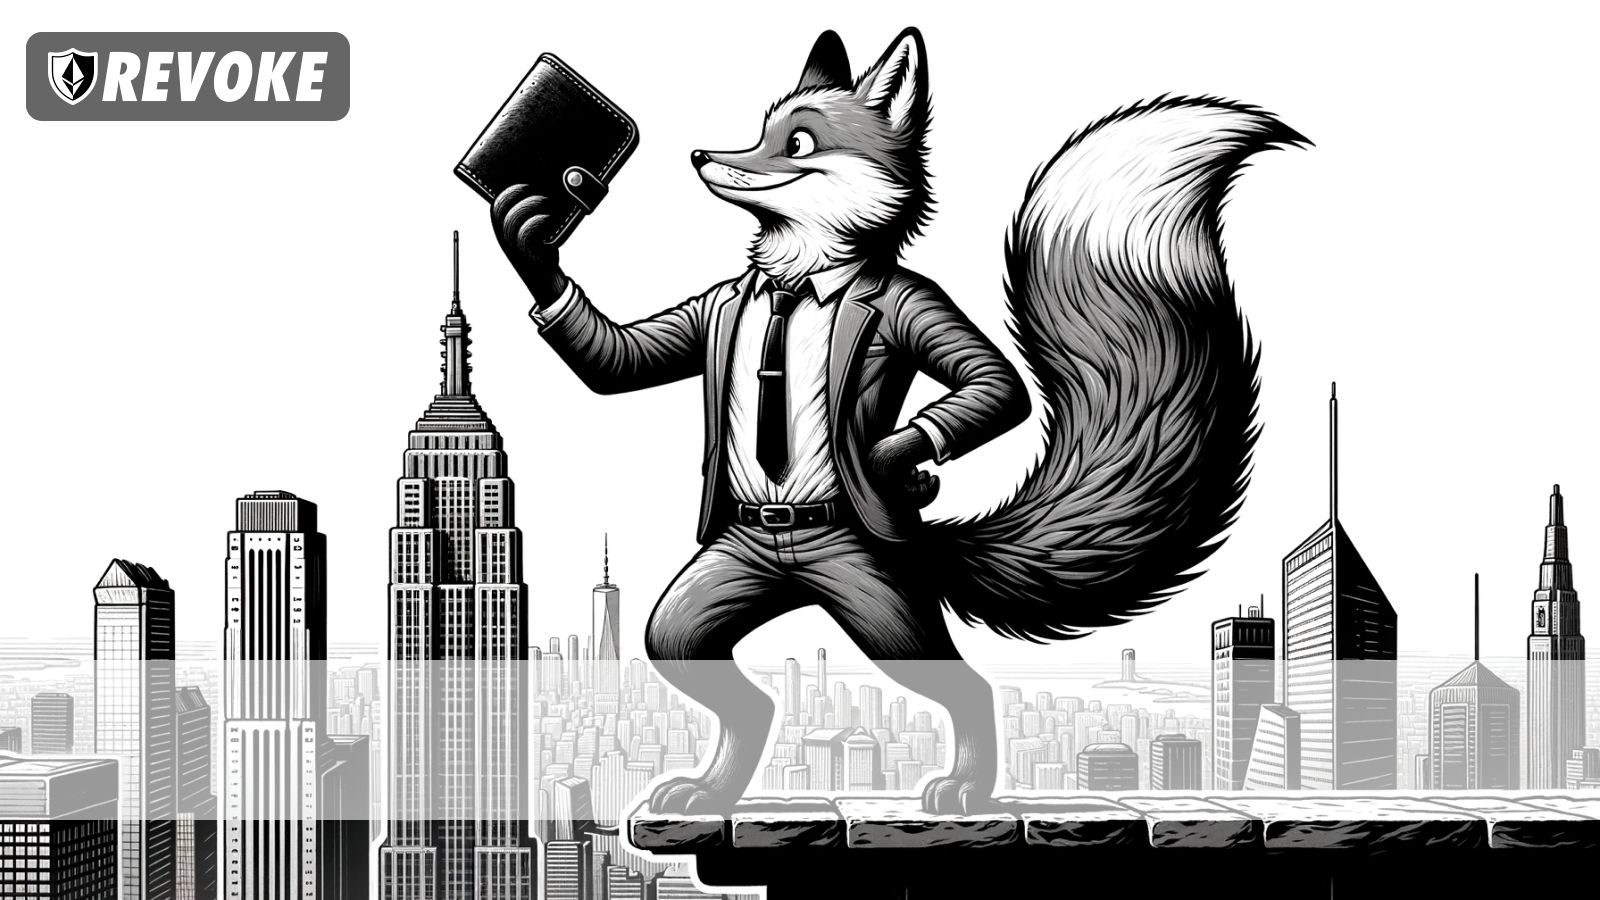
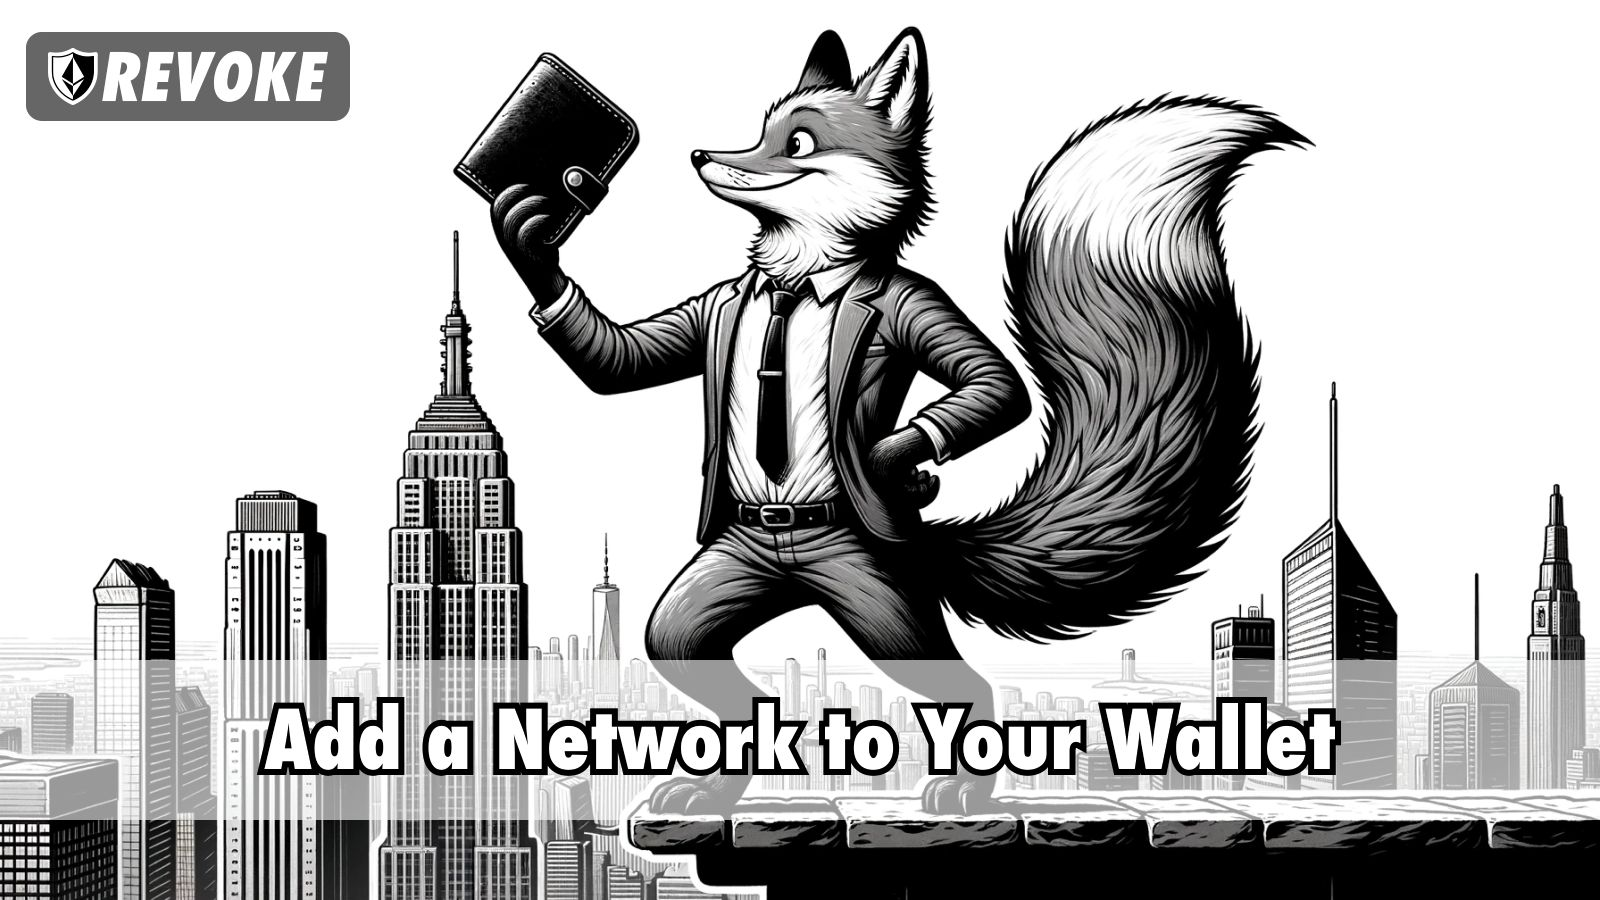
Add images to Learn section cards

Changed region(s): [[0.1562, 0.7778, 0.8438, 0.8711]]

diff --git a/components/common/Card.tsx b/components/common/Card.tsx
@@ -6,12 +6,13 @@ interface Props {
   title?: ReactNode;
   subtitle?: ReactNode;
   children: ReactNode;
+  image?: ReactNode;
   icon?: React.ExoticComponent<React.SVGProps<SVGSVGElement>>;
   className?: string;
   isLoading?: boolean;
 }
 
-const Card = ({ title, subtitle, children, className, ...props }: Props) => {
+const Card = ({ title, subtitle, children, className, image, ...props }: Props) => {
   return (
     <div className="h-full w-full border border-black dark:border-white rounded-lg">
       {(title || subtitle) && (
@@ -22,6 +23,7 @@ const Card = ({ title, subtitle, children, className, ...props }: Props) => {
           <p>{subtitle}</p>
         </div>
       )}
+      {image ? <div className="border-b border-black dark:border-white">{image}</div> : null}
       <Loader isLoading={props.isLoading} className="rounded-t-none border-none">
         <div className={twMerge('w-full py-2 px-4', className)}>{children}</div>
       </Loader>

diff --git a/components/learn/ArticleCardSection.tsx b/components/learn/ArticleCardSection.tsx
@@ -1,6 +1,7 @@
 import Card from 'components/common/Card';
 import Href from 'components/common/Href';
 import { ISidebarEntry } from 'lib/interfaces';
+import Image from 'next/image';
 
 const ArticleCardSection = ({ title, children }: Omit<ISidebarEntry, 'title' | 'path'> & Partial<ISidebarEntry>) => {
   if (!children?.length) return null;
@@ -19,7 +20,11 @@ const ArticleCardSection = ({ title, children }: Omit<ISidebarEntry, 'title' | '
 
 const ArticleCard = ({ title, description, path }: ISidebarEntry) => (
   <Href href={path} router underline="none" className="h-full">
-    <Card title={title} className="h-full">
+    <Card
+      title={title}
+      className="h-full"
+      image={<Image src={`/assets/images${path}/cover.jpg`} alt={title} width={1600} height={900} />}
+    >
       <p>{description}</p>
     </Card>
   </Href>

diff --git a/pages/api/og/index.tsx b/pages/api/og/index.tsx
@@ -10,13 +10,13 @@ export const config = {
 
 const Backgrounds = {
   // @ts-ignore
-  APPROVAL_CHECKER: fetch(new URL('/public/assets/images/token-approval-checker/cover.jpg', import.meta.url)).then(
-    (res) => res.arrayBuffer(),
-  ),
+  APPROVAL_CHECKER: fetch(
+    new URL('/public/assets/images/token-approval-checker/cover-template.jpg', import.meta.url),
+  ).then((res) => res.arrayBuffer()),
   // @ts-ignore
-  ADD_NETWORK: fetch(new URL('/public/assets/images/learn/wallets/add-network/cover.jpg', import.meta.url)).then(
-    (res) => res.arrayBuffer(),
-  ),
+  ADD_NETWORK: fetch(
+    new URL('/public/assets/images/learn/wallets/add-network/cover-template.jpg', import.meta.url),
+  ).then((res) => res.arrayBuffer()),
 };
 
 // @ts-ignore
